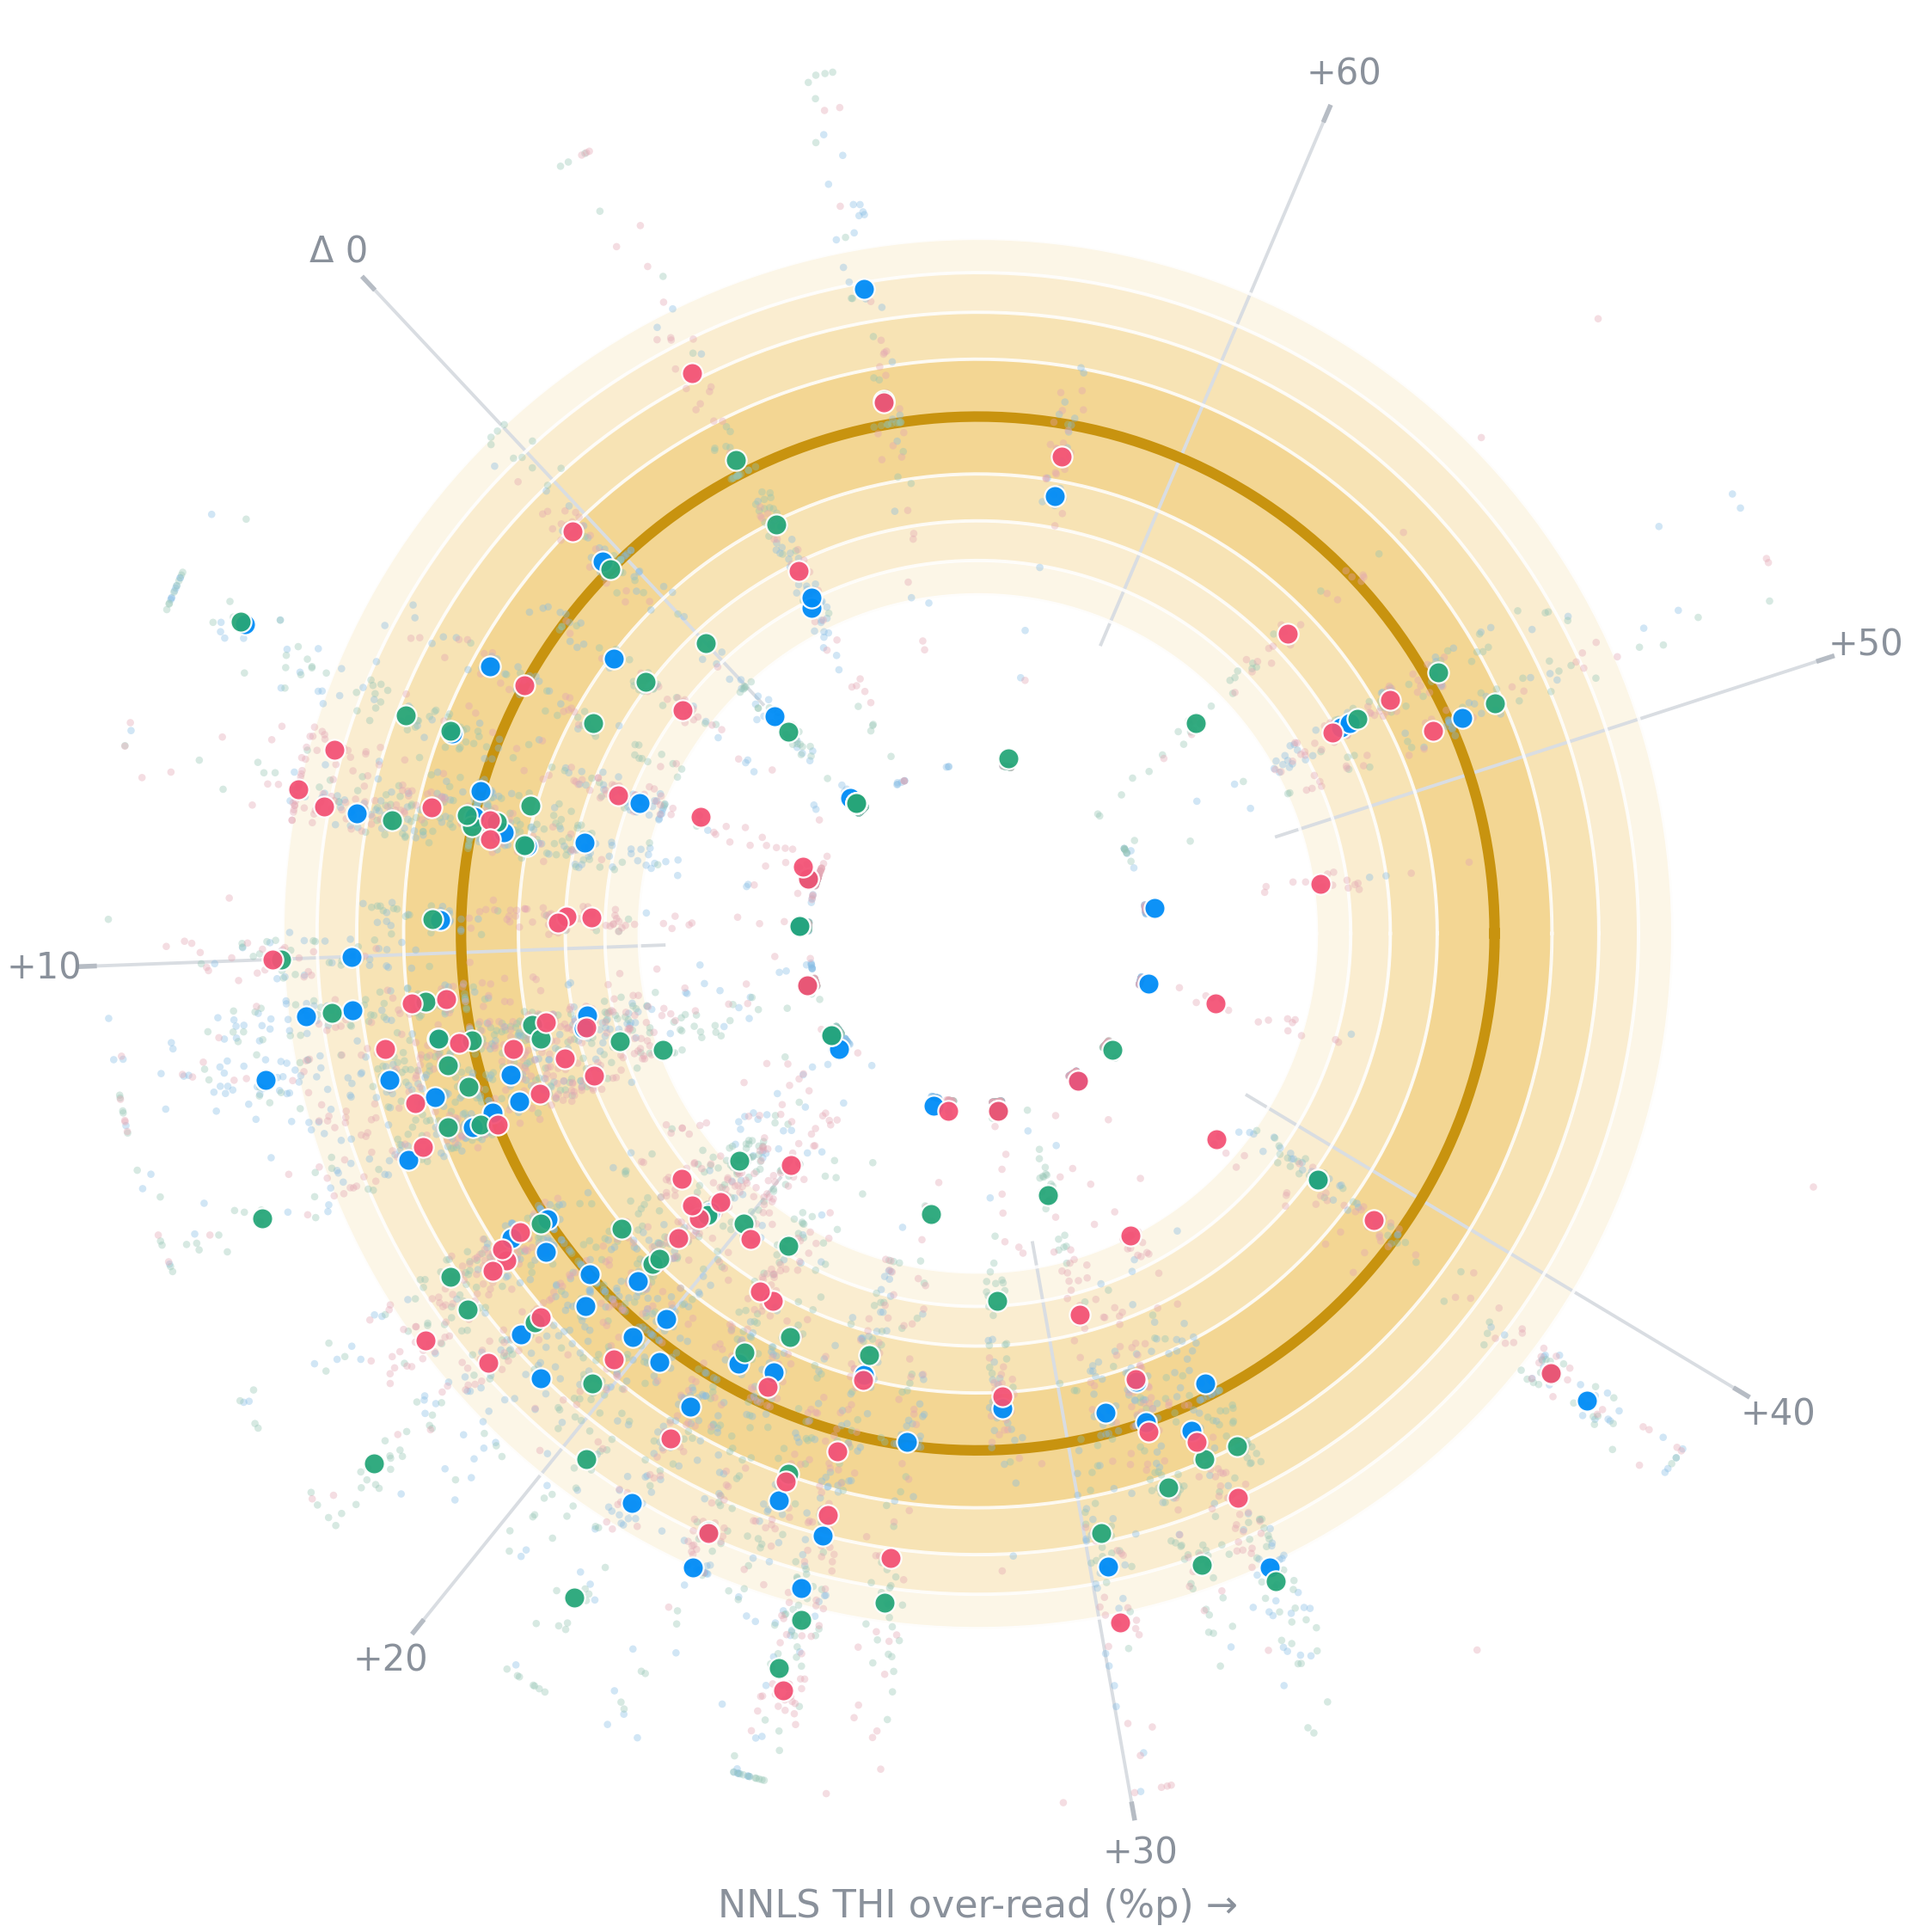
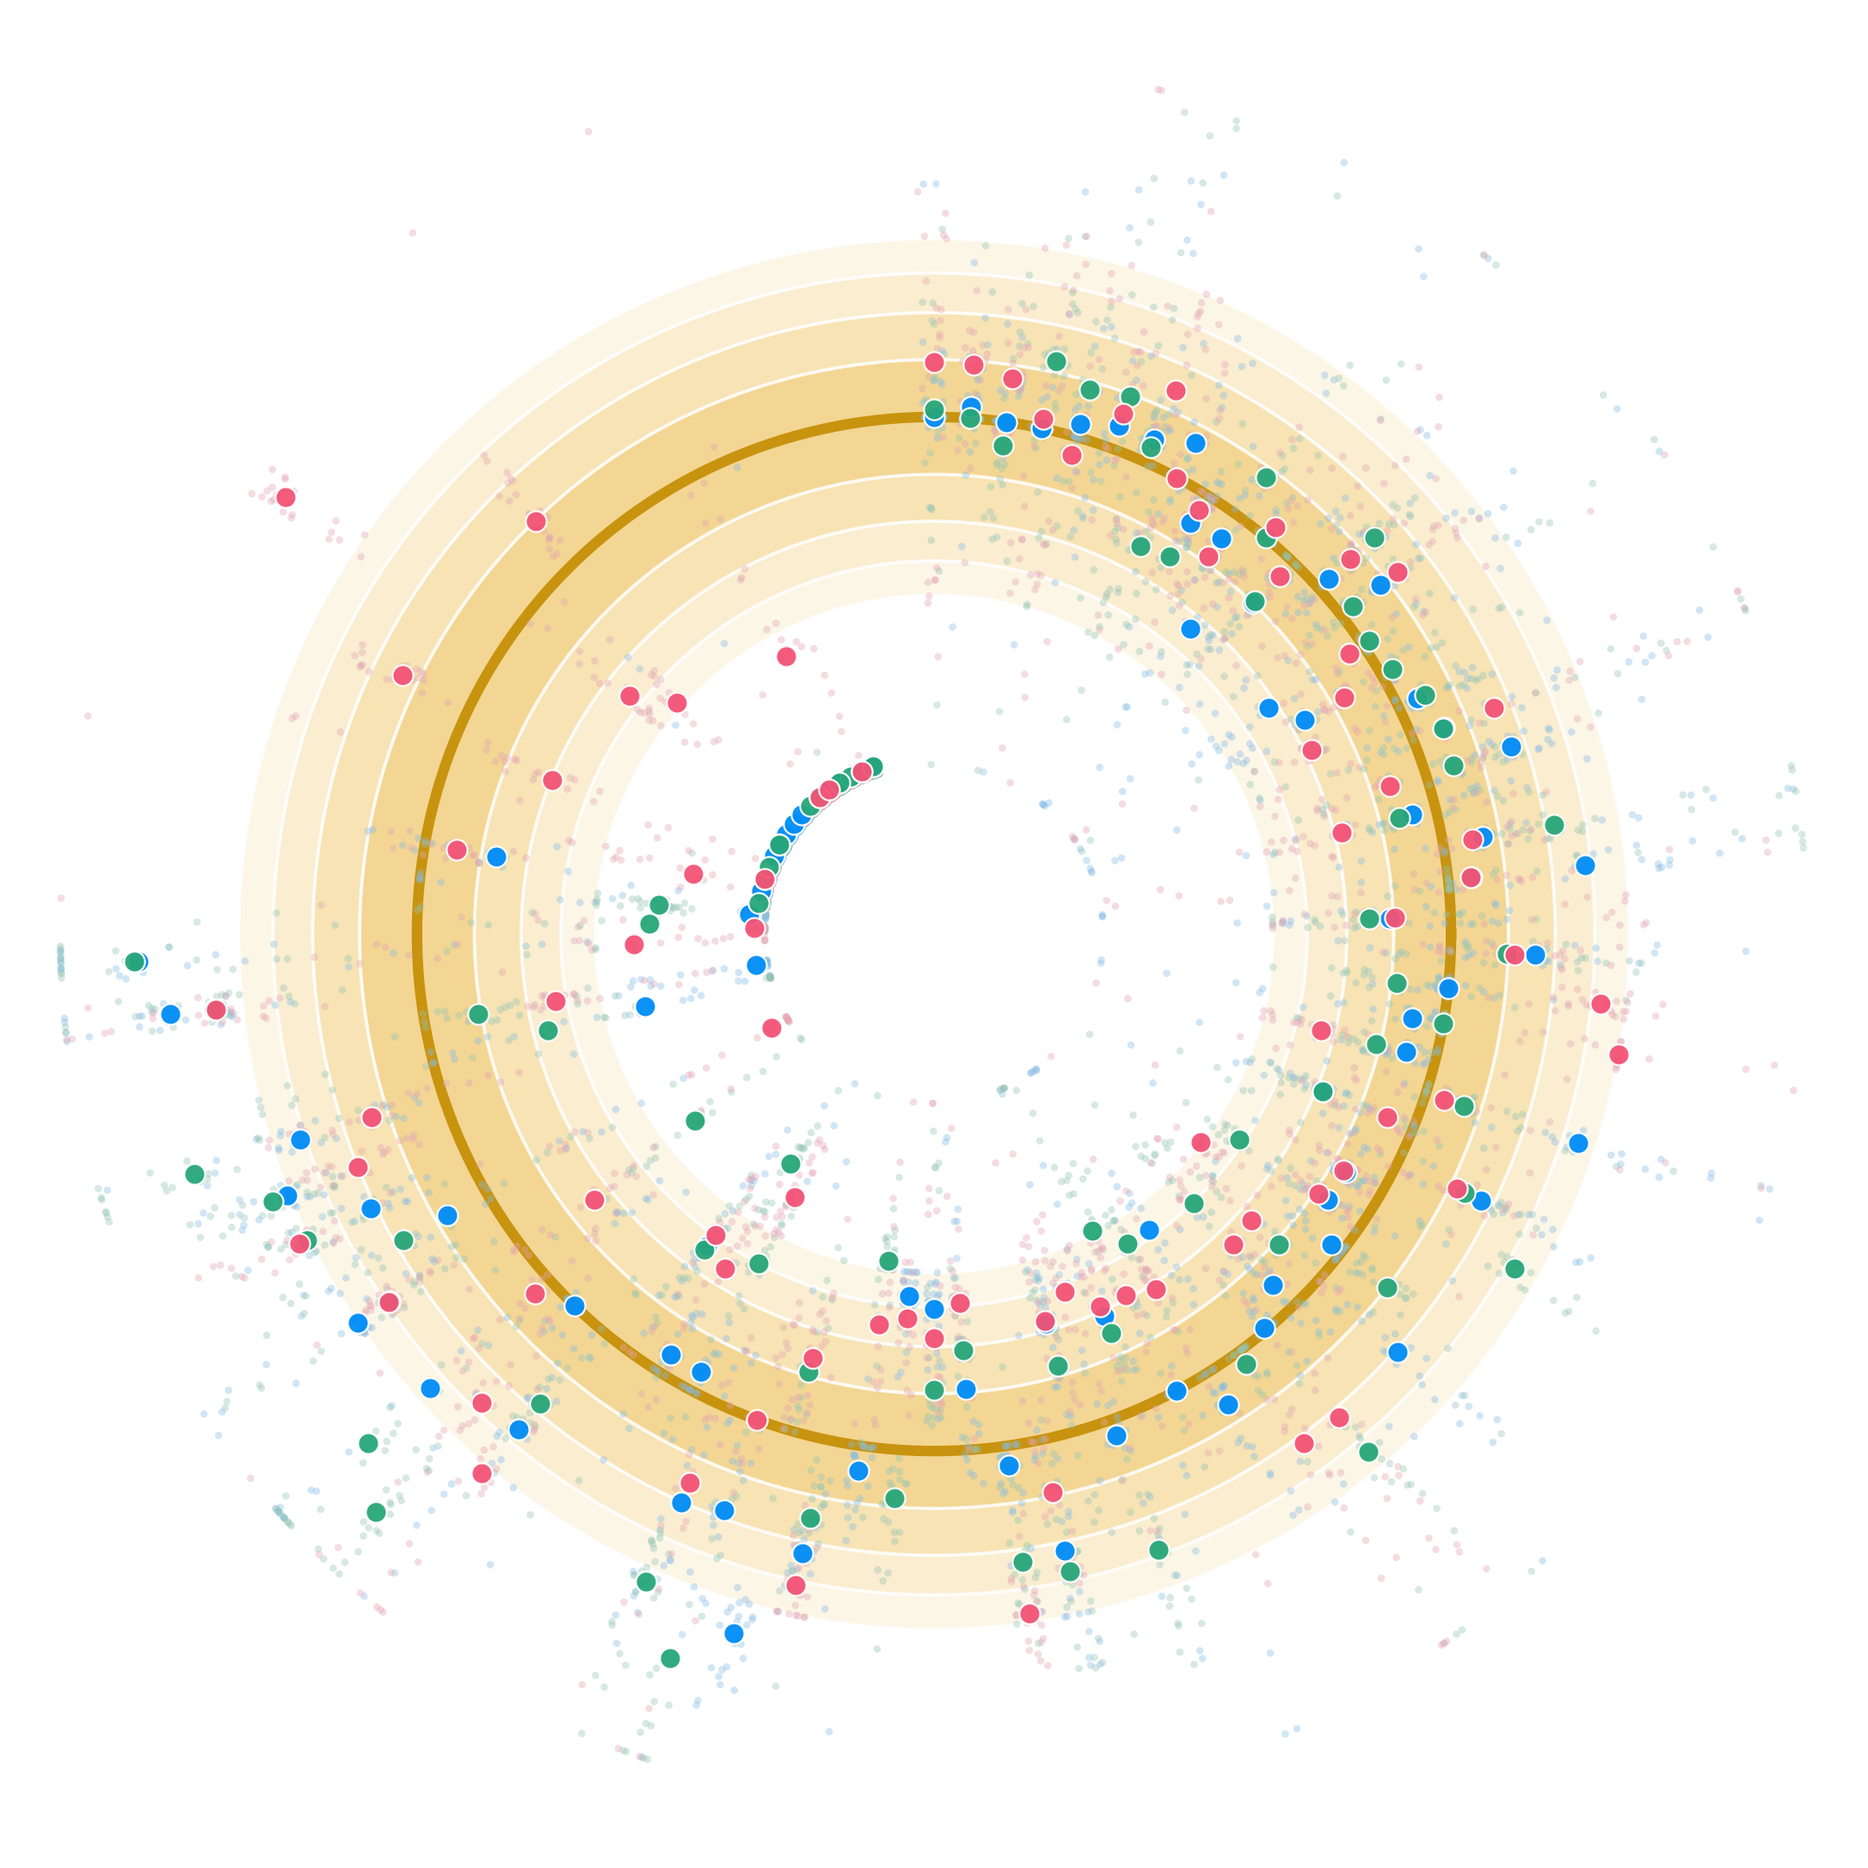
44k: angle = restoration-accuracy rank, best at 12 o'clock going clockwise; delta axis and grid dropped (confusing)

diff --git a/documentation/scripts/fig44k_spiral_um_combined.py b/documentation/scripts/fig44k_spiral_um_combined.py
@@ -101,32 +101,18 @@ for s in SUBS:
     w2 = ((allv >= 0.5) & (allv <= 2.0)).mean() * 100
     print(f"{s}: {len(data[s])} maps, {len(allv)} px, pixel within-2x={w2:.0f}%")
 
-# 맵 공통 배열축: NNLS의 THI 과대판독 Δ = 표면 THI% − 참 THI% (오름차순)
-# — 틈에서 출발해 돌수록 "THI가 비대로 읽힌" 맵. (사용자 지정 기준)
-import csv as _csv
-
-delta = {}
-for r in _csv.DictReader(open(os.path.join(
-        RES, "17_composition_all_conditions_master.csv"),
-        encoding="utf-8-sig")):
-    name = (f"DQ{float(r['DQ']):g}-TB{float(r['TBZ']):g}"
-            f"-TH{float(r['THI']):g}.csv")
-    delta[name] = (float(r["Ratio_THI_NNLS_Pred"])
-                   - float(r["Ratio_THI_True"]))
-maps = sorted({c for s in SUBS for c in data[s]},
-              key=lambda c: delta.get(c, 0.0))
-# 각도 = Δ 값에 선형 비례 (순위 아님 — "점 400개 = 축 400개" 방지)
-D0 = delta.get(maps[0], 0.0)
-D1 = delta.get(maps[-1], 0.0)
-
-
-def d2ang(dv):
-    return np.deg2rad(100) + (dv - D0) / (D1 - D0) * np.deg2rad(340)
-
-
-ANG = {c: float(d2ang(delta.get(c, 0.0))) for c in maps}
-print("maps on shared axis:", len(maps),
-      "| delta range:", round(D0, 1), "→", round(D1, 1), "%p")
+# 맵 공통 배열축: 복원 정확도 순위 — 과녁에 제일 잘 맞춘 맵이 12시,
+# 시계방향으로 갈수록 못 맞춘 맵. (Δ축은 헷갈려서 폐기 — 2026-09-02)
+score = {}
+for c in {c for s in SUBS for c in data[s]}:
+    errs = [abs(np.log2(max(np.median(data[s][c]), 1e-3)))
+            for s in SUBS if c in data[s]]
+    score[c] = float(np.mean(errs))
+maps = sorted(score, key=score.get)
+ANG = {c: float(np.deg2rad(90) - np.deg2rad(340) * i / max(len(maps) - 1, 1))
+       for i, c in enumerate(maps)}   # 12시 시작, 시계방향
+print("maps:", len(maps), "| accuracy score best/worst:",
+      round(score[maps[0]], 2), "/", round(score[maps[-1]], 2))
 
 
 def draw_window(ax):
@@ -145,8 +131,7 @@ def draw_window(ax):
 
 
 def draw_sub(s, ax, clouds=True):
-    # 선형 Δ축: 한 맵 = 한 각도라 픽셀이 레이로 서는 것을 지터로 완화
-    jit = np.deg2rad(1.6)
+    jit = np.deg2rad(340) / len(maps) * 0.32
     angs, meds = [], []
     for c, v in data[s].items():
         a = ANG[c]
@@ -165,29 +150,10 @@ def draw_sub(s, ax, clouds=True):
                linewidth=0.4, zorder=5)
 
 
-def draw_delta_grid(ax):
-    """Δ 눈금 격자 — 선형축이라 등간격."""
-    for dv in (0, 10, 20, 30, 40, 50, 60):
-        if dv < D0 or dv > D1:
-            continue
-        a = float(d2ang(dv))
-        ax.plot([a, a], [rad(1 / 2.2), 2 * RMAX + 0.06], color="#d9dde2",
-                lw=0.7, zorder=0.5)
-        ax.plot([a, a], [2 * RMAX + 0.06, 2 * RMAX + 0.14], color="#b6bcc4",
-                lw=1.0, clip_on=False, zorder=1)
-        lab = "Δ 0" if dv == 0 else f"+{dv}"
-        ax.text(a, 2 * RMAX + 0.34, lab, fontsize=7.5, color="#8a919b",
-                ha="center", va="center")
-    ax.text(np.deg2rad(100 + 340 * 0.5), 2 * RMAX + 0.62,
-            "NNLS THI over-read (%p) →", fontsize=8, color="#8a919b",
-            ha="center")
-
-
 for tag, clouds in (("44k_spiral_um_combined", True),
                     ("44k_spiral_um_combined_medians", False)):
     fig, ax = plt.subplots(figsize=(7.0, 7.0), subplot_kw=dict(polar=True))
     draw_window(ax)
-    draw_delta_grid(ax)
     for s in ("DQ", "TBZ", "THI"):
         draw_sub(s, ax, clouds=clouds)
     ax.set_xticks([])
